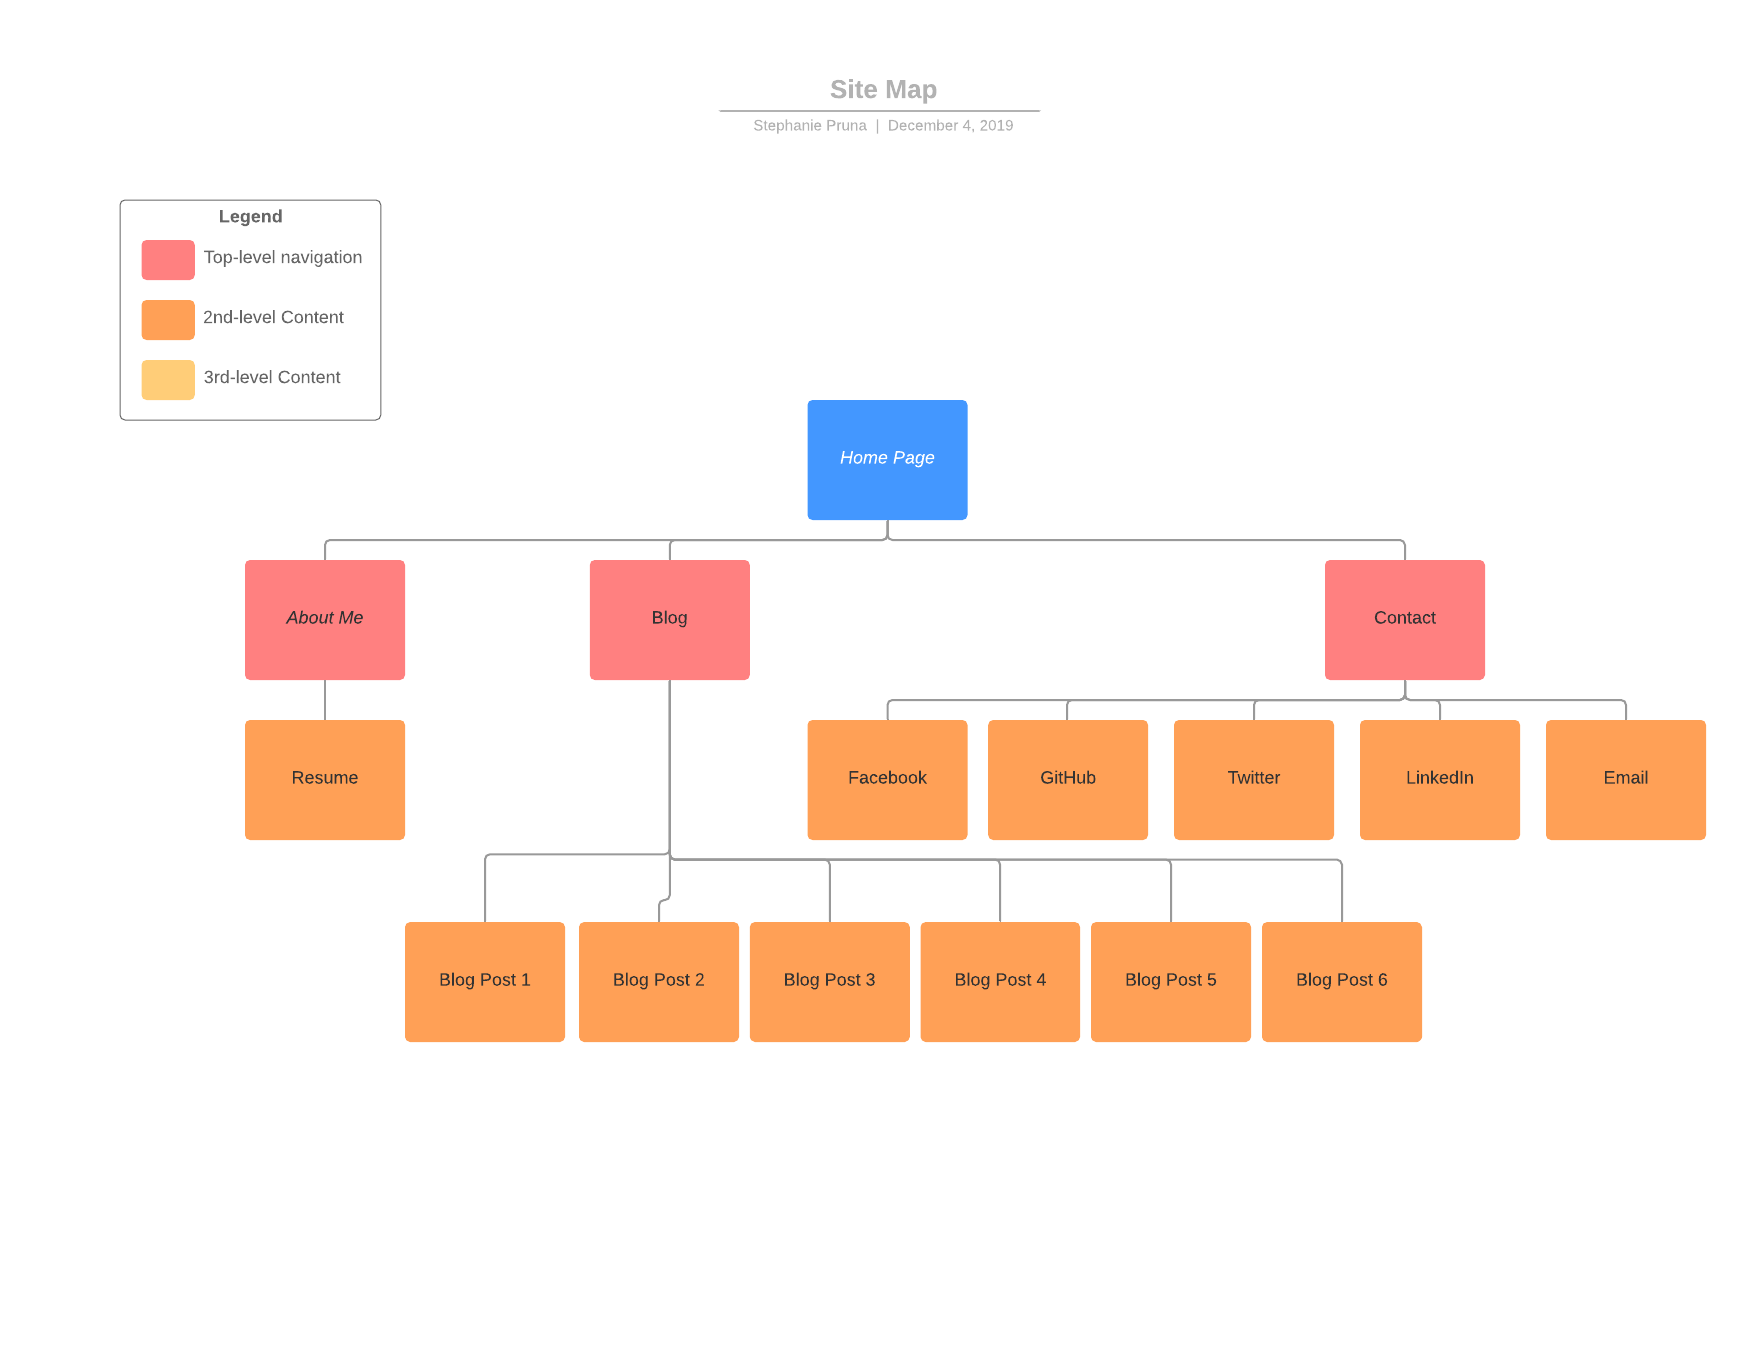
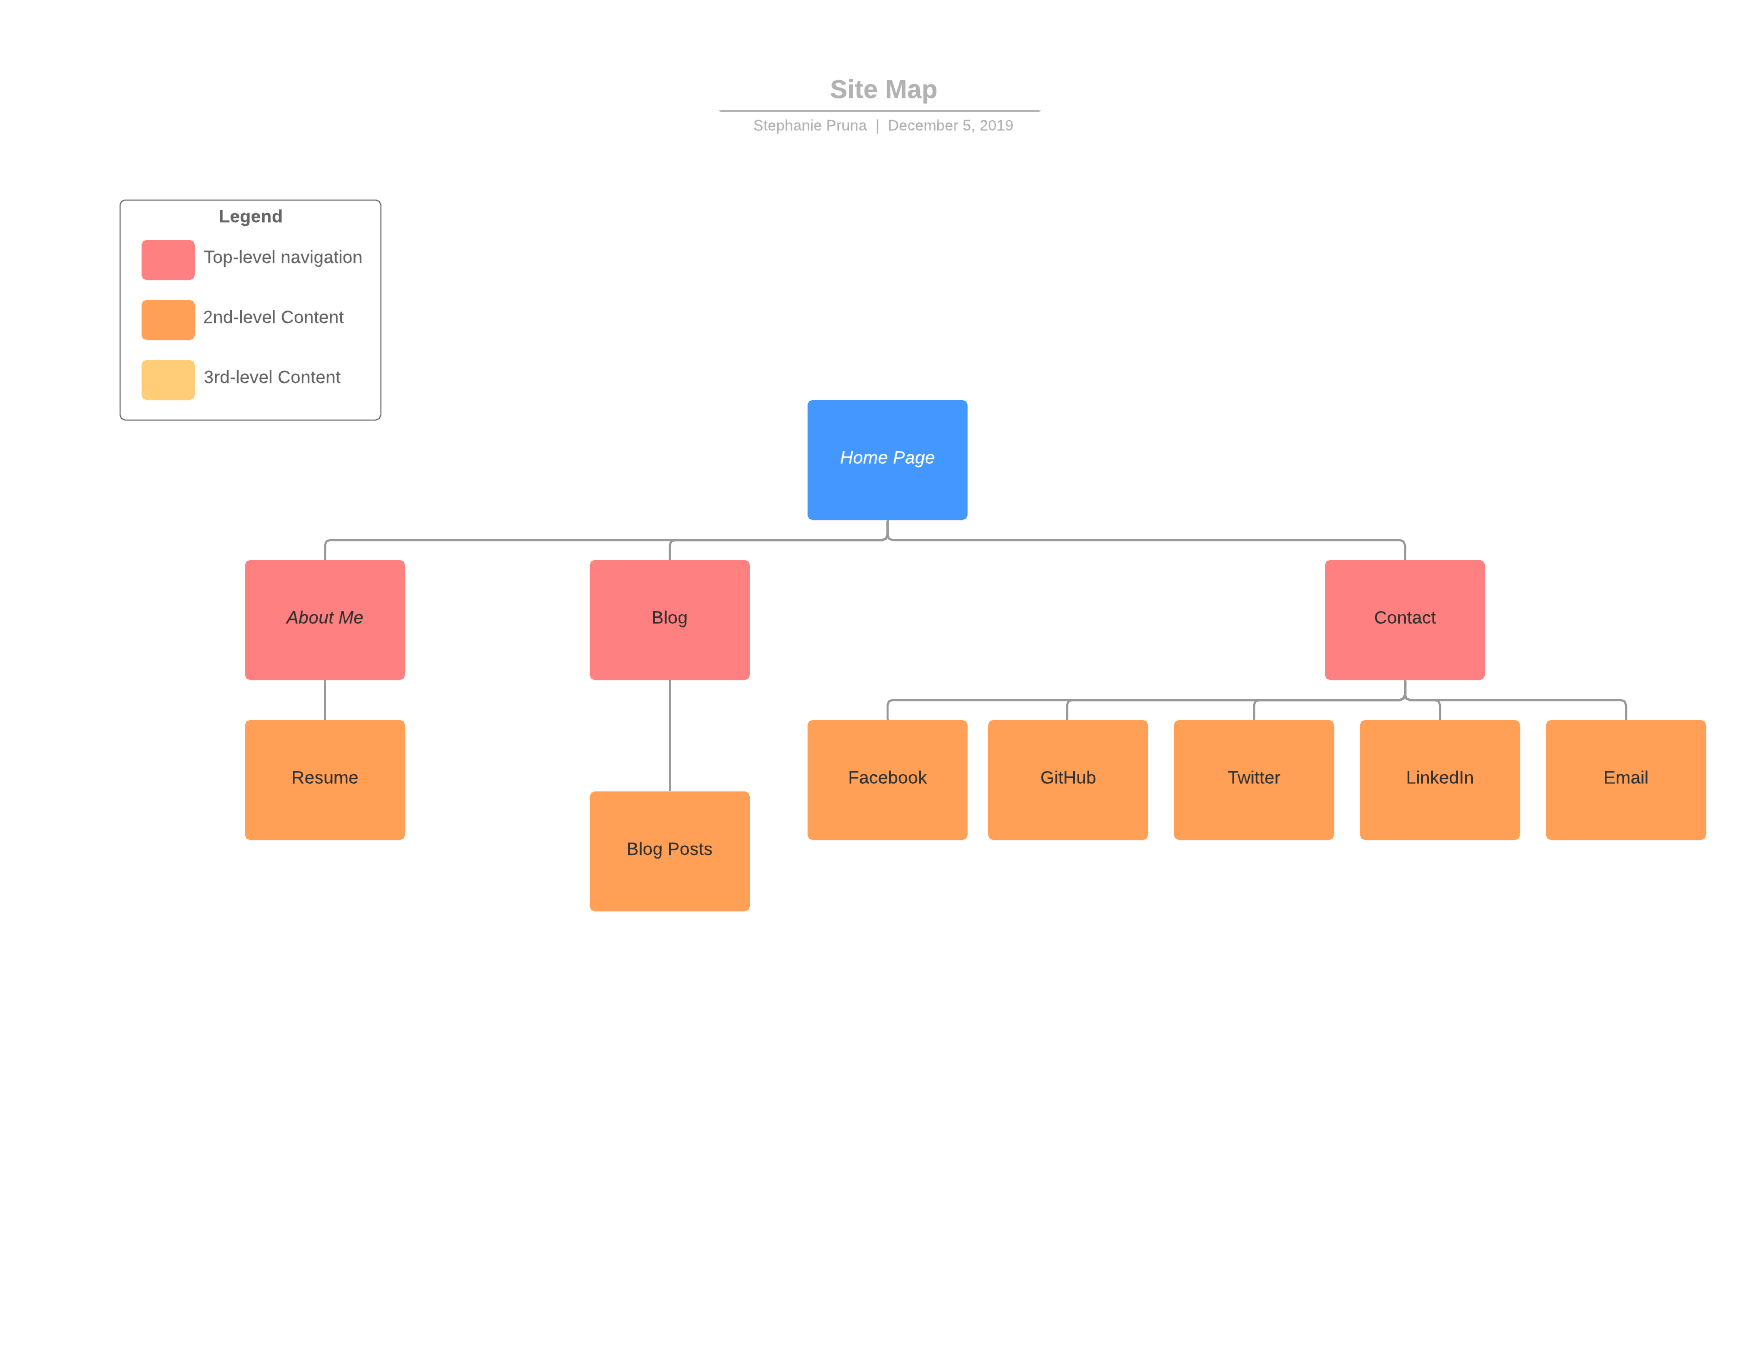
Added Blog Posts Page, Updated Site Map, Added CSS for Blog Posts Page, Added SI

Changed region(s): [[0.2188, 0.5559, 0.8125, 0.7721]]

diff --git a/blogposts.html b/blogposts.html
@@ -1,0 +1,48 @@
+<!DOCTYPE html>
+<!DOCTYPE html>
+<head>
+    <meta charset="UTF-8">
+    <title>Blog</title>
+    <meta name="viewport" content="width=device-width, initial-scale=1.0"/>
+    <link rel="stylesheet" href="stephportfolio.css">
+    <link href="https://fonts.googleapis.com/css?family=Pacifico&display=swap" rel="stylesheet">
+</head>
+
+<body>
+<!-- START NAV -->
+
+<nav id="navbar" class="nav">
+    <ul class="nav-list">
+        <li><a href="stephportfolio.html">Home</a></li>
+      <li><a href="aboutme.html">About</a></li>
+      <li><a href="blog.html">Blog</a></li>
+      <li><a href="contact.html">Contact</a></li>
+    </ul>
+  </nav>
+
+  <section id="blog-content" class="blog-content">
+    <div id="imposter-syndrome" class="blog-post">
+        <h2>Overcoming Imposter Syndrome</h2>
+        <p>Lorem ipsum dolor sit amet, consectetur adipiscing elit. Proin eget pulvinar nulla. Duis vel dolor vel massa fringilla elementum. Integer pellentesque cursus nibh, quis volutpat purus vehicula a. Integer fermentum quis lacus eget malesuada. Pellentesque sollicitudin purus sapien, a sodales lorem hendrerit eu. Sed placerat venenatis ante id facilisis. Nunc et scelerisque arcu, sodales ultrices nulla. Nam at auctor arcu, ac euismod arcu. Nam maximus mi a aliquam gravida.</p>
+    </div>
+    <div id="why-tech" class="blog-post">
+        <h2>Why Technology?</h2>
+        <p>Nunc aliquam at quam non tempor. Suspendisse commodo at tortor vel bibendum. Vivamus sed nisi sem. Phasellus consequat porta erat, ac volutpat leo rutrum ut. Vestibulum ante ipsum primis in faucibus orci luctus et ultrices posuere cubilia Curae; Nulla sapien leo, commodo lacinia vulputate sit amet, convallis in magna. Sed ac maximus tortor, sed laoreet dolor. Vivamus vel nunc fringilla arcu pharetra commodo. Duis at cursus odio. Integer rutrum semper erat, eget condimentum neque blandit quis. In semper lectus sem, id scelerisque quam malesuada vel. Donec sodales purus non odio semper, eget ullamcorper leo aliquet. Proin mattis quam sit amet egestas luctus. Donec efficitur magna vel eros tempus euismod. Curabitur id hendrerit magna.</p>
+    </div>
+    <div id="burnt-out" class="blog-post">
+        <h2>Burnt Out?</h2>
+        <p>Pellentesque scelerisque lorem eu lorem gravida pellentesque. Orci varius natoque penatibus et magnis dis parturient montes, nascetur ridiculus mus. Pellentesque velit neque, placerat sed tincidunt vitae, consectetur ut elit. Nam lectus nulla, interdum nec risus at, lobortis posuere mi. Donec nunc ipsum, rutrum vel massa mattis, imperdiet suscipit lectus. Aliquam tincidunt posuere ipsum, a tincidunt ante porttitor at. Etiam pellentesque enim accumsan elit viverra efficitur. Duis elementum tincidunt dui, sit amet scelerisque enim pulvinar ac. Phasellus eget ornare orci. Nulla egestas cursus velit, a feugiat magna rhoncus et. In cursus erat eget lacus finibus interdum. Nam viverra congue risus eu tristique. Quisque aliquam, quam id maximus ultrices, eros lorem aliquet mauris, at convallis lacus velit eu nibh. Curabitur ante nunc, dignissim ac hendrerit ut, interdum id sem. Vivamus sagittis imperdiet odio vulputate posuere. Vestibulum ultricies augue sit amet placerat cursus.</p>
+    </div>
+    <div id="diversity" class="blog-post">
+        <h2>Why Diversity in Tech is important</h2>
+        <p>Nullam pellentesque varius lectus sed venenatis. In hac habitasse platea dictumst. Donec tincidunt ligula quis sollicitudin accumsan. In tempor felis tortor. Vivamus nibh tortor, ultricies a arcu a, commodo accumsan ex. Donec rhoncus augue sed est pulvinar, eu vulputate nisi luctus. Morbi pulvinar metus nec iaculis sodales. Phasellus porta interdum arcu eu facilisis. Cras auctor mattis tristique. Suspendisse pulvinar bibendum orci, a facilisis massa scelerisque eu. Nam pharetra laoreet ipsum et lobortis.</p>
+    </div>
+    <div id="learn-something" class="blog-post">
+        <h2>Time to learn something new</h2>
+        <p>PCras a dignissim augue. Suspendisse imperdiet velit eu nulla consectetur mollis. Morbi condimentum mattis est. Integer nisi libero, ornare at rutrum id, ullamcorper eget justo. Etiam eu lacus sem. Cras sapien justo, pharetra at neque vitae, interdum finibus odio. Duis ullamcorper nisl non augue sodales volutpat.</p>
+    </div>
+    <div id="stay-pawsitive" class="blog-post">
+        <h2>Stay Pawsitive</h2>
+        <p>Pellentesque habitant morbi tristique senectus et netus et malesuada fames ac turpis egestas. Sed sollicitudin urna eu libero dapibus sagittis. Pellentesque in venenatis urna. Ut risus nibh, egestas vel suscipit ac, pulvinar malesuada eros. Suspendisse ac vestibulum erat. Nullam vitae vestibulum lectus. Nulla bibendum dolor sed mauris interdum, at gravida arcu dapibus. Curabitur a dolor eu ligula tincidunt ullamcorper. Ut pharetra tristique sapien at sollicitudin. Integer et augue mauris. Vivamus aliquet sem nulla, eu egestas lacus semper et. </p>
+    </div>
+</section>

diff --git a/blog.html b/blog.html
@@ -2,6 +2,7 @@
 <head>
     <meta charset="UTF-8">
     <title>Blog</title>
+    <meta name="viewport" content="width=device-width, initial-scale=1.0"/>
     <link rel="stylesheet" href="stephportfolio.css">
     <link href="https://fonts.googleapis.com/css?family=Pacifico&display=swap" rel="stylesheet">
 </head>
@@ -23,7 +24,7 @@
 <div class="blog-grid">
     <div class="blog-post-1">
         <a
-        href="https://techgirl.tech.blog/2019/12/03/overcoming-imposter-syndrome/"
+        href="blogposts.html#imposter-sydrome"
         target="_blank"
         class="blog-tile"
       ><img src="Overcoming-Imposter-Syndrome.png" alt="Overcoming Imposter Syndrome">Published 12th November 2019</a>
@@ -31,7 +32,7 @@
 
     <div class="blog-post-2">
             <a
-            href="https://techgirl.tech.blog/2019/12/03/why-technology/"
+            href="blogposts.html#why-tech"
             target="_blank"
             class="blog-tile"
           ><img src="WhyTechnology.png" alt="Why Technology">Published 15th November 2019</a>
@@ -39,14 +40,14 @@
 
         <div class="blog-post-3">
                 <a
-                href="https://techgirl.tech.blog/2019/12/03/burnt-out/"
+                href="blogposts.html#burnt-out"
                 target="_blank"
                 class="blog-tile"
               ><img src="BurntOut.png" alt="Burnt Out?">Published 1st December 2019</a>
         </div>
         <div class="blog-post-4">
                 <a
-                href="https://techgirl.tech.blog/2019/12/03/why-diversity-in-tech-is-important/"
+                href="blogposts.html#diversity"
                 target="_blank"
                 class="blog-tile"
               ><img src="DiversityInTech.png" alt="Diversity in Tech">Published 3rd December 2019</a>
@@ -54,7 +55,7 @@
 
         <div class="blog-post-5">
           <a
-          href="https://techgirl.tech.blog/2019/12/03/time-to-learn-something-new/"
+          href="blogposts.html#learn-something"
           target="_blank"
           class="blog-tile"
         ><img src="LearnSomethingNew.png" alt="Learn Something New">Published 5th December 2019</a>
@@ -62,7 +63,7 @@
 
         <div class="blog-post-6">
           <a
-          href="https://techgirl.tech.blog/2019/12/03/how-to-stay-pawsitive/"
+          href="blogposts.html#stay-pawsitive"
           target="_blank"
           class="blog-tile"
         ><img src="StayPawsitive.png" alt="Stay Pawsitive">Published 6th December 2019</a>

diff --git a/stephportfolio.css b/stephportfolio.css
@@ -151,6 +151,7 @@
   }
 
   .about > h2 {
+    margin-top: 70px;
     font-family: 'Pacifico', cursive;
   }
   
@@ -164,7 +165,6 @@
     max-width: 100%;
     height: auto;
     color: var(--main-white);
-    
   }
 
 .education-list {
@@ -340,4 +340,47 @@
   width: 300px;
   height: 300px;
   text-align: center;
+  }
+
+  /* Blog Posts Page */
+
+  .blog-content > h2 {
+    display: flex;
+    justify-content: center;
+    font-family: 'Pacifico', cursive;
+    margin-top: 70px;
+  }
+
+  .blog-content {
+    background: var(--main-blue);
+    background-repeat: no-repeat;
+    background-size: 100% 100%;
+  }
+  
+  .blog-post {
+    display: flex;
+    flex-direction: column;
+    align-content: center;
+    justify-content: center;
+    font-weight: 200;
+    font-style: italic;
+    max-width: 100%;
+    height: auto;
+    color: var(--main-white);
+  }
+
+  .blog-post > h2 {
+    display: flex;
+    justify-content: center;
+    font-family: 'Pacifico', cursive;
+    margin-top: 100px;
+  }
+
+  .blog-post > p {
+    display: flex;
+    justify-content: center;
+    font-size: 3rem;
+    font-weight: 200;
+    font-style: italic;
+    margin: 30px;
   }

diff --git a/aboutme.html b/aboutme.html
@@ -2,6 +2,7 @@
 <head>
     <meta charset="UTF-8">
     <title>About Me</title>
+    <meta name="viewport" content="width=device-width, initial-scale=1.0"/>
     <link rel="stylesheet" href="stephportfolio.css">
     <link href="https://fonts.googleapis.com/css?family=Pacifico&display=swap" rel="stylesheet">
 </head>
@@ -22,10 +23,10 @@
           <section id="about" class="about">
                 <h2>About me...</h2>
                 <br>
-                <div class="profile-pic">
+                <div id="profile-pic" class="profile-pic">
                     <img src="profile1.png" class="steph-pic" alt="Stephanie Pruna Profile Pic">
                 </div>
-                <div class="info">     
+                <div id="info" class="info">     
                             I am a passionate advocate for Diversity & Inclusion in the workplace and currently work for Code Like a Girl. 
                         <br>
                     

diff --git a/stephportfolio.html b/stephportfolio.html
@@ -2,9 +2,10 @@
 <head>
     <meta charset="UTF-8">
     <title>Stephanie Pruna</title>
+    <meta name="viewport" content="width=device-width, initial-scale=1.0"/>
     <link href='https://fonts.googleapis.com/css?family=Fauna+One' rel='stylesheet' type='text/css'>
     <link href="https://fonts.googleapis.com/css?family=Pacifico&display=swap" rel="stylesheet">
-    <link rel="stylesheet" href="stephportfolio.css">
+    <link rel="stylesheet" integrity="sha256tGdB9ZGh8JruavDjlg/Z3JpVebXPVmM0pg7iHWScDRg sha384-PMzt3FmQfTtaRRZU0BWPZyg5UtijEGl7HLTg9uj4Qj0ZL0Q8sq3vCRZLYM0707x1 sha512-JBZYFeDiVmwSKEiRVOokoaJHvAVnJtTwHU4nPTgeUCHyqkVBLPYUUhN34i+LD/Rwj+7+NOCWNh5mg5af/GmbJg==" href="stephportfolio.css">
 </head>
 
 <body>

diff --git a/contact.html b/contact.html
@@ -2,6 +2,7 @@
 <head>
     <meta charset="UTF-8">
     <title>Contact Me</title>
+    <meta name="viewport" content="width=device-width, initial-scale=1.0"/>
     <link rel="stylesheet" href="stephportfolio.css">
     <link href="https://fonts.googleapis.com/css?family=Pacifico&display=swap" rel="stylesheet">
 </head>
